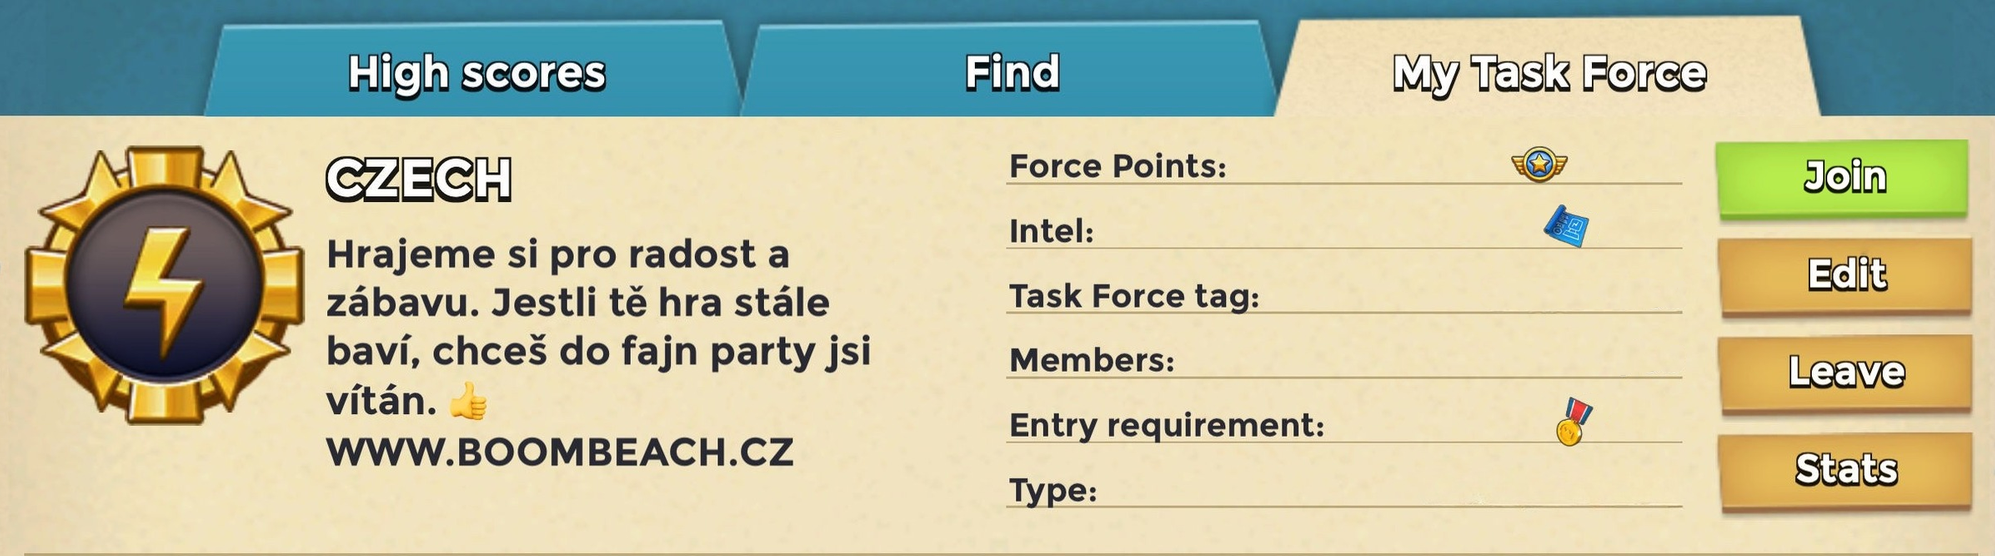
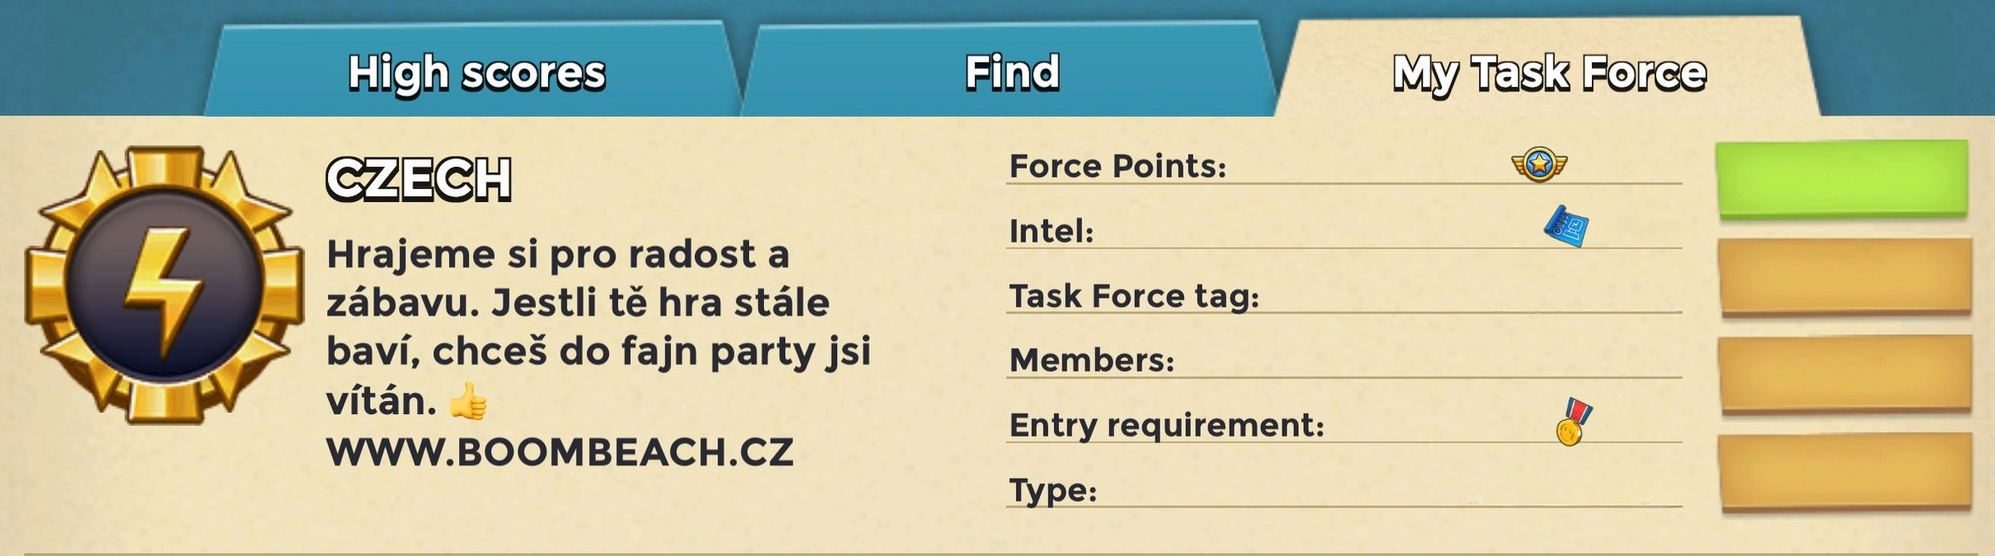
Add localized operation countdown popup

diff --git a/index.html b/index.html
@@ -14,6 +14,14 @@
   src: url("fonts/broshk.ttf") format("truetype");
 }
 
+@font-face {
+  font-family: "DSEG7-Classic";
+  src: url("fonts/DSEG7Classic-Regular.woff2") format("woff2");
+  font-weight: 400;
+  font-style: normal;
+  font-display: swap;
+}
+
 html, body {
   margin: 0;
   padding: 0;
@@ -233,6 +241,42 @@ html, body {
 .history-close { position: absolute; top: 10px; right: 14px; width: 44px; height: 44px; border: 0; border-radius: 50%; background: rgba(255,255,255,.55); font-size: 32px; line-height: 40px; cursor: pointer; }
 .history-chart-wrap { height: 405px; }
 .history-message { height: 100%; display: flex; align-items: center; justify-content: center; font-size: 25px; color: #333; text-align: center; }
+.operations-popup { left: 50%; top: 50%; width: min(900px, calc(100vw - 48px)); height: 480px; transform: translate(-50%, -50%); text-align: center; }
+.operations-content { display: flex; height: 100%; flex-direction: column; align-items: center; justify-content: center; font-family: "Trebuchet MS", Arial, sans-serif; color: #fff; }
+.operations-title,
+.operations-start,
+.operations-next,
+.operations-countdown {
+  text-shadow:
+    -2px -2px 0 #000,
+     2px -2px 0 #000,
+    -2px  2px 0 #000,
+     2px  2px 0 #000,
+     0 5px 0 rgba(0,0,0,0.6);
+}
+.operations-title { margin: 0 45px 20px; color: #ffcb20; font-size: 96px; line-height: 1.1; }
+.operations-start { margin: 0 0 53px; font-size: 44.2px; font-weight: 600; line-height: 1.2; }
+#operationsStartTime { color: #55d63b; font-size: inherit; }
+.operations-next { margin: 0 0 20px; font-size: 32px; font-weight: 600; line-height: 1.2; }
+.operations-countdown {
+  display: inline-flex;
+  align-items: center;
+  justify-content: center;
+  width: fit-content;
+  box-sizing: border-box;
+  padding: 18px 36px 18px 18px;
+  border: 4px solid #fff;
+  border-radius: 18px;
+  background: #000;
+  font-family: "DSEG7-Classic", monospace;
+  font-size: 72px;
+  font-weight: 400;
+  font-variant-numeric: tabular-nums;
+  line-height: 1.15;
+  white-space: nowrap;
+}
+.operations-countdown-unit { display: inline-block; min-width: 92px; text-align: center; }
+.operations-countdown-separator { display: inline-block; width: 38px; text-align: center; }
 
 .team-header {
   position: relative;
@@ -269,18 +313,40 @@ html, body {
 }
 
 
-.team-join-link {
+.team-action {
   position: absolute;
   left: 85.9%;
-  top: 24.7%;
   width: 12.8%;
   height: 14.6%;
-  display: block;
-  cursor: pointer;
+  display: flex;
+  align-items: center;
+  justify-content: center;
+  box-sizing: border-box;
+  padding: 0;
+  border: 0;
   border-radius: 8px;
+  background: transparent;
+  color: #fff;
+  font-family: "Trebuchet MS", Arial, sans-serif;
+  font-size: 41.6px;
+  font-weight: 600;
+  line-height: 1;
+  text-align: center;
+  text-decoration: none;
+  text-shadow:
+    -2px -2px 0 #000,
+     2px -2px 0 #000,
+    -2px  2px 0 #000,
+     2px  2px 0 #000,
+     0 5px 0 rgba(0,0,0,0.6);
 }
 
-.team-join-link:focus-visible {
+.team-action-join { top: 24.7%; cursor: pointer; }
+.team-action-operations { top: 42.3%; }
+.team-action-awards { top: 60.0%; }
+.team-action-stats { top: 77.8%; }
+
+.team-action-join:focus-visible {
   outline: 4px solid #fff;
   outline-offset: -5px;
 }
@@ -313,8 +379,11 @@ html, body {
 <body>
 
 <div class="team-header" aria-label="Informace o týmu">
-  <img class="team-header-image" src="img/team-header.png?v=20260814-3" alt="CZECH task force">
-  <a class="team-join-link" href="https://link.boombeach.com/?url=boombeach%3A%2F%2FViewTaskforce%3Ftag%3D%23PV9LJUQ2" aria-label="Join CZECH task force"></a>
+  <img class="team-header-image" src="img/team-header.png?v=20260815-1" alt="CZECH task force">
+  <a class="team-action team-action-join" href="https://link.boombeach.com/?url=boombeach%3A%2F%2FViewTaskforce%3Ftag%3D%23PV9LJUQ2" aria-label="Připojit se k CZECH task force">PŘIPOJIT</a>
+  <button id="operationsButton" class="team-action team-action-operations" type="button">OPERACE</button>
+  <span class="team-action team-action-awards">DIPLOMY</span>
+  <span class="team-action team-action-stats">STATISTIKA</span>
   <span class="team-info-value team-info-force" data-team-info="force_points"></span>
   <span class="team-info-value team-info-intels stat-history" tabindex="0" role="button" data-kind="team_intel" data-player="CZECH" data-team-info="intels_per_day"></span>
   <span class="team-info-value team-info-tag" data-team-info="tag">#PV9LJUQ2</span>
@@ -323,11 +392,22 @@ html, body {
   <span class="team-info-value team-info-type" data-team-info="type">Closed</span>
 </div>
 <div id="team">Načítám…</div>
-<div class="last-update">Last update: <span id="lastUpdateValue"></span></div>
+<div class="last-update">Poslední aktualizace: <span id="lastUpdateValue"></span></div>
 <div id="historyPopup" class="history-popup" role="dialog" aria-modal="false" aria-labelledby="historyTitle">
   <button class="history-close" type="button" aria-label="Zavřít">&times;</button>
   <h2 id="historyTitle" class="history-title"></h2>
   <div class="history-chart-wrap"><canvas></canvas></div>
+</div>
+<div id="operationsPopup" class="history-popup operations-popup" role="dialog" aria-modal="true" aria-labelledby="operationsTitle">
+  <button class="history-close operations-close" type="button" aria-label="Zavřít">&times;</button>
+  <div class="operations-content">
+    <h2 id="operationsTitle" class="operations-title">DUPLEXITY</h2>
+    <p class="operations-start">START OPERACE - <span id="operationsStartTime">--:--</span></p>
+    <p class="operations-next">DALŠÍ OPERACE ZAČÍNÁ ZA</p>
+    <div id="operationsCountdown" class="operations-countdown" role="timer" aria-live="off" aria-label="Čas do další operace">
+      <span id="operationsHours" class="operations-countdown-unit">00</span><span class="operations-countdown-separator">:</span><span id="operationsMinutes" class="operations-countdown-unit">00</span><span class="operations-countdown-separator">:</span><span id="operationsSeconds" class="operations-countdown-unit">00</span>
+    </div>
+  </div>
 </div>
 
 <script>
@@ -340,6 +420,7 @@ const historyUrls = {
 };
 const teamInfoUrl = url + "&gid=861518513";
 const lastUpdateUrl = "https://docs.google.com/spreadsheets/d/1QwQtftNvKBuVT1hTVxgilxiUdDT_D1OEhA8ILINs0Wo/gviz/tq?tqx=out:csv&sheet=TEAM%20INFO&range=B6";
+const operationsScheduleUrl = "https://docs.google.com/spreadsheets/d/1qm-39cW6c-xFX_8Bw6od3LNd5QHvMqSrzHY4frf6OPI/gviz/tq?tqx=out:csv&gid=901175290&range=A:B";
 const dataCachePromise = fetch("data/cache.json", { cache: "no-store" }).then(response => {
   if (!response.ok) throw new Error(`Cache HTTP ${response.status}`);
   return response.json();
@@ -752,7 +833,75 @@ document.addEventListener("keydown", e => { const stat = e.target.closest(".stat
 historyPopup.addEventListener("mouseenter", () => clearTimeout(historyCloseTimer));
 historyPopup.addEventListener("mouseleave", scheduleHistoryClose);
 historyPopup.querySelector(".history-close").addEventListener("click", () => closeHistory(true));
-window.addEventListener("resize", () => closeHistory(true));</script>
+window.addEventListener("resize", () => closeHistory(true));
+
+const operationsButton = document.getElementById("operationsButton");
+const operationsPopup = document.getElementById("operationsPopup");
+const operationsStartTime = document.getElementById("operationsStartTime");
+const operationsHours = document.getElementById("operationsHours");
+const operationsMinutes = document.getElementById("operationsMinutes");
+const operationsSeconds = document.getElementById("operationsSeconds");
+let operationsCountdownTimer = null;
+let operationsSchedule = [];
+
+function parseOperationsSchedule(text) {
+  return text.trim().split(/\r?\n/).slice(1).map(parseCSVRow).map(columns => {
+    const dateMatch = clean(columns[0]).match(/^(\d{1,2})\.(\d{1,2})\.(\d{4})$/);
+    const timeMatch = clean(columns[1]).match(/^(\d{1,2}):(\d{2})$/);
+    if (!dateMatch || !timeMatch) return null;
+    const date = new Date(Number(dateMatch[3]), Number(dateMatch[2]) - 1, Number(dateMatch[1]), Number(timeMatch[1]), Number(timeMatch[2]), 0, 0);
+    return Number.isNaN(date.getTime()) ? null : date;
+  }).filter(Boolean).sort((a, b) => a - b);
+}
+
+const operationsSchedulePromise = loadData("operationsScheduleCsv", operationsScheduleUrl)
+  .then(parseOperationsSchedule)
+  .then(schedule => { operationsSchedule = schedule; return schedule; })
+  .catch(error => { console.error("Operations schedule load failed", error); return []; });
+
+function getNextOperationTime(now = new Date()) {
+  return operationsSchedule.find(date => date > now) || null;
+}
+
+function updateOperationsCountdown() {
+  const target = getNextOperationTime();
+  if (!target) {
+    operationsStartTime.textContent = "--:--";
+    operationsHours.textContent = "--";
+    operationsMinutes.textContent = "--";
+    operationsSeconds.textContent = "--";
+    return;
+  }
+  operationsStartTime.textContent = `${target.getHours()}:${String(target.getMinutes()).padStart(2, "0")}`;
+  const remainingSeconds = Math.max(0, Math.ceil((target - Date.now()) / 1000));
+  const hours = Math.floor(remainingSeconds / 3600);
+  const minutes = Math.floor((remainingSeconds % 3600) / 60);
+  const seconds = remainingSeconds % 60;
+  operationsHours.textContent = String(hours).padStart(2, "0");
+  operationsMinutes.textContent = String(minutes).padStart(2, "0");
+  operationsSeconds.textContent = String(seconds).padStart(2, "0");
+}
+
+async function openOperations() {
+  closeHistory(true);
+  operationsPopup.classList.add("visible");
+  await operationsSchedulePromise;
+  updateOperationsCountdown();
+  clearInterval(operationsCountdownTimer);
+  operationsCountdownTimer = setInterval(updateOperationsCountdown, 1000);
+}
+function closeOperations() {
+  operationsPopup.classList.remove("visible");
+  clearInterval(operationsCountdownTimer);
+  operationsCountdownTimer = null;
+}
+operationsButton.addEventListener("click", event => { event.stopPropagation(); openOperations(); });
+operationsPopup.querySelector(".operations-close").addEventListener("click", closeOperations);
+document.addEventListener("click", event => {
+  if (!event.target.closest("#operationsPopup") && !event.target.closest("#operationsButton")) closeOperations();
+});
+document.addEventListener("keydown", event => { if (event.key === "Escape") closeOperations(); });
+</script>
 
 </body>
 </html>
